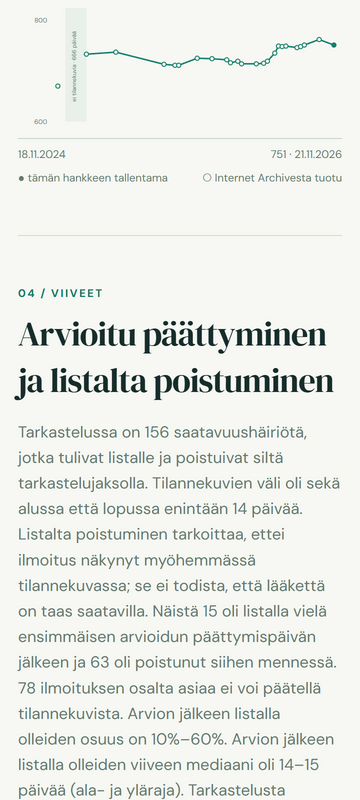
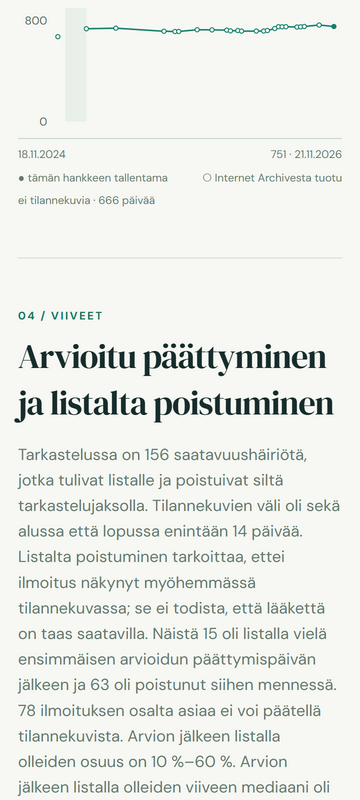
Clarify delay sample and credit archived captures

diff --git a/site/app.js b/site/app.js
@@ -2,10 +2,13 @@ let data, visible = 20;
 const $ = id => document.getElementById(id);
 const esc = value => String(value || '').replace(/[&<>"']/g, c => ({'&':'&amp;','<':'&lt;','>':'&gt;','"':'&quot;',"'":'&#39;'}[c]));
 const copy = {
-  en: {brand: 'SHORTAGE RADAR', languageLabel: 'Language', form_0:"Eye drops", form_1:"Ear drops", form_2:"Nasal spray", form_3:"Inhaled medicine", form_4:"Injection", form_5:"Infusion", form_6:"Cream", form_7:"Chewable tablet", form_8:"Tablet dissolved under the tongue", form_9:"Tablet", form_10:"Capsule", form_11:"Patch", form_12:"Oral solution", form_13:"Oral suspension", form_14:"Cream or ointment", form_15:"Gel", form_16:"Shampoo", form_17:"Suppository", form_18:"Enema", group_A:"Digestive and metabolic medicines", group_B:"Blood medicines", group_C:"Heart and blood pressure medicines", group_D:"Skin medicines", group_G:"Urinary and reproductive health medicines", group_H:"Hormone medicines", group_J:"Medicines for infections", group_L:"Cancer and immune system medicines", group_M:"Muscle and joint medicines", group_N:"Nervous system medicines", group_P:"Medicines for parasites", group_Q:"Veterinary medicines", group_R:"Breathing and allergy medicines", group_S:"Eye and ear medicines", group_V:"Other medicines", form_combined:"Medicine for injection or infusion", form_injectionPowder:"Powder for injection", form_infusionPowder:"Powder for infusion", form_oralSolutionPowder:"Powder for oral solution", form_oralSuspensionPowder:"Powder for oral suspension", group_eye:"Eye medicines", group_ear:"Ear medicines", chartAria:(a,b,n)=>`Saved snapshot counts from ${a} to ${b}, latest ${n}`, latest:d=>`LATEST SNAPSHOT ${d}`, historyStart:d=>`History starts on ${d}. Earlier shortages are not included.`, delayCount:n=>`${n} observed removals with an initial estimate. Removal dates are the first saved snapshot without the record, not confirmed end dates.`, country:"/ FINLAND", aboutLink:"About the data ↗", openData:"FIMEA OPEN DATA", heading:"Medicine shortages", headingPlace:"in Finland.", intro:"A clearer view of reported medicine shortages, updated from Fimea’s open data.", aboutTitle:"ABOUT THIS DATA", aboutText:"Includes current shortages and those expected to begin within two weeks. A listing does not tell you whether a medicine is available at your pharmacy.", overview:"Overview", statShortages:"LISTED SHORTAGES", statCurrent:"Current and upcoming", statCompanies:"COMPANIES", statHolders:"Marketing authorisation holders", statArchive:"ARCHIVE STARTED", statArchiveNote:"History begins on this date", listKicker:"01 / THE LIST", searchLabel:"Search shortages", packageLevel:"FIMEA · PACKAGE LEVEL", pictureKicker:"02 / THE PICTURE", pictureTitle:"Where shortages appear", pictureText:"Counts represent listed shortage records, not unique medicines.", byGroup:"By medicine group", byCompany:"By company", topTen:"top 10", historyKicker:"03 / OVER TIME", historyTitle:"A history, starting here.", historyText:"Snapshots are saved when the source changes. Gaps do not prove daily observations, and removal from the list is not proof of actual supply.", chartLabel:"Shortage counts by saved snapshot", delayKicker:"04 / DELAYS", delayTitle:"Estimated end vs. list removal", noticeTitle:"Not medical advice.", noticeText:"Ask a pharmacist or doctor about your medicines.", footerAgency:"Finnish Medicines Agency Fimea", footerTransform:"Data was selected, joined and transformed.", footerNote:"Source dates are HTTP Last-Modified times; publisher release times are not provided. Interchangeable groups are not substitution recommendations.", sourceLink:"Source and licence ↗", pageTitle:"Shortage Radar — Finland", description:"A clearer view of reported medicine shortages in Finland.", loading:"Loading shortages…", loadingData:"Loading data…", loadError:"Unable to load data", listError:"Data could not be loaded. Please try again later.", startUnknown:"Start date unknown", startUnknownSentence:"Start date not known.", chartEmpty:"A chart will appear when at least two snapshots are available.", unknownCompany:"Unknown", delayEmpty:"Needs more weeks of data.", firstEstimate:"first estimate", removedBy:"removed by", shortageFile:"Fimea shortage file", register:"Basic register", helpTitle:'What is a shortage?', help:'The company has told Fimea it cannot deliver this package for a while. Your pharmacy may still have some. Ask your pharmacy what is available. This site is not medical advice.', title:'Reported shortages', hint:'Search by medicine, active substance, ATC, company or VNR.', placeholder:'Search your medicine, e.g. Burana', count:n=>`${numberText(n)} ${n === 1 ? 'record' : 'records'}`, more:'Show more', empty:'No medicines match your search. Try another name or number.', out:'Out now', soon:'Starts soon', since:'Not available since', starts:'Expected to become unavailable on', expected:'Expected back around', estimate:"the company’s estimate", unknown:'Return date not known.', late:'Later than estimated', days:n=>`${numberText(n)} ${n === 1 ? 'day' : 'days'}`, details:'Details', strength:'Strength', substance:'Active substance', company:'Company', reported:'Report date', unavailable:'Name unavailable', group:'What is it for', noGroup:'Group not listed', form:'Original form', otherForm:'Other form'},
-  fi: {brand: 'SAATAVUUSTUTKA', languageLabel: 'Kieli', form_0:"Silmätipat", form_1:"Korvatipat", form_2:"Nenäsumute", form_3:"Inhalaatiolääke", form_4:"Injektioneste", form_5:"Infuusioneste", form_6:"Emulsiovoide", form_7:"Purutabletti", form_8:"Kielen alle liukeneva tabletti", form_9:"Tabletti", form_10:"Kapseli", form_11:"Laastari", form_12:"Oraaliliuos", form_13:"Oraalisuspensio", form_14:"Voide", form_15:"Geeli", form_16:"Sampoo", form_17:"Peräpuikko", form_18:"Peräruiske", group_A:"Ruoansulatuksen ja aineenvaihdunnan lääkkeet", group_B:"Veren ja verenkierron lääkkeet", group_C:"Sydän- ja verenpainelääkkeet", group_D:"Iholääkkeet", group_G:"Virtsateiden ja lisääntymisterveyden lääkkeet", group_H:"Hormonilääkkeet", group_J:"Infektiolääkkeet", group_L:"Syöpä- ja immuunijärjestelmän lääkkeet", group_M:"Lihas- ja nivelsairauksien lääkkeet", group_N:"Hermoston lääkkeet", group_P:"Loislääkkeet", group_Q:"Eläinlääkkeet", group_R:"Hengitystie- ja allergialääkkeet", group_S:"Silmä- ja korvalääkkeet", group_V:"Muut lääkkeet", form_combined:"Injektio- tai infuusiolääke", form_injectionPowder:"Injektiokuiva-aine", form_infusionPowder:"Infuusiokuiva-aine", form_oralSolutionPowder:"Jauhe oraaliliuosta varten", form_oralSuspensionPowder:"Jauhe oraalisuspensiota varten", group_eye:"Silmälääkkeet", group_ear:"Korvalääkkeet", chartAria:(a,b,n)=>`Tallennettujen tilannekuvien ilmoitusmäärät ${a}–${b}, viimeisin ${n}`, latest:d=>`VIIMEISIN TILANNEKUVA ${d}`, historyStart:d=>`Historia alkaa ${d}. Aiemmat saatavuushäiriöt eivät ole mukana.`, delayCount:n=>`${n} listalta poistuneelle ilmoitukselle on alkuperäinen päättymisarvio. Poistumispäivä on ensimmäinen tallennettu tilannekuva, jossa ilmoitusta ei enää ole, ei vahvistettu päättymispäivä.`, country:"/ SUOMI", aboutLink:"Tietoa aineistosta ↗", openData:"FIMEAN AVOIN DATA", heading:"Lääkkeiden", headingPlace:"saatavuushäiriöt Suomessa.", intro:"Selkeä näkymä ilmoitettuihin lääkkeiden saatavuushäiriöihin Fimean avoimen datan perusteella.", aboutTitle:"TIETOA AINEISTOSTA", aboutText:"Mukana ovat nykyiset häiriöt ja kahden viikon kuluessa alkaviksi arvioidut häiriöt. Ilmoitus ei kerro, onko lääkettä saatavilla omassa apteekissasi.", overview:"Yhteenveto", statShortages:"ILMOITETUT HÄIRIÖT", statCurrent:"Nykyiset ja tulevat", statCompanies:"YRITYKSET", statHolders:"Myyntiluvan haltijat", statArchive:"ARKISTO ALKANUT", statArchiveNote:"Historia alkaa tästä päivästä", listKicker:"01 / LISTA", searchLabel:"Hae saatavuushäiriöitä", packageLevel:"FIMEA · PAKKAUSTASO", pictureKicker:"02 / YLEISKUVA", pictureTitle:"Missä häiriöitä esiintyy", pictureText:"Luvut kuvaavat ilmoituksia, eivät yksittäisten lääkkeiden määrää.", byGroup:"Lääkeryhmittäin", byCompany:"Yrityksittäin", topTen:"10 suurinta", historyKicker:"03 / AIKANA", historyTitle:"Historia alkaa tästä.", historyText:"Tilannekuva tallennetaan, kun lähdeaineisto muuttuu. Aukot eivät osoita päivittäisiä havaintoja, eikä listalta poistuminen todista, että lääkettä on saatavilla.", chartLabel:"Ilmoitusten määrä tallennetuissa tilannekuvissa", delayKicker:"04 / VIIVEET", delayTitle:"Arvioitu päättyminen ja listalta poistuminen", noticeTitle:"Tämä ei ole lääketieteellinen neuvo.", noticeText:"Kysy lääkkeistäsi apteekista tai lääkäriltä.", footerAgency:"Lääkealan turvallisuus- ja kehittämiskeskus Fimea", footerTransform:"Aineistoa on valikoitu, yhdistetty ja muokattu.", footerNote:"Lähteiden ajankohdat ovat HTTP Last-Modified -aikoja; julkaisija ei ilmoita julkaisuaikoja. Vaihtokelpoisten lääkkeiden ryhmät eivät ole suosituksia lääkkeen vaihtamisesta.", sourceLink:"Lähde ja lisenssi ↗", pageTitle:"Saatavuustutka — Suomi", description:"Selkeä näkymä Suomessa ilmoitettuihin lääkkeiden saatavuushäiriöihin.", loading:"Ladataan saatavuushäiriöitä…", loadingData:"Ladataan tietoja…", loadError:"Tietojen lataaminen epäonnistui", listError:"Tietoja ei voitu ladata. Yritä myöhemmin uudelleen.", startUnknown:"Alkamispäivä ei tiedossa", startUnknownSentence:"Alkamispäivä ei ole tiedossa.", chartEmpty:"Kaavio tulee näkyviin, kun vähintään kaksi tilannekuvaa on tallennettu.", unknownCompany:"Ei tiedossa", delayEmpty:"Tietoja tarvitaan useammalta viikolta.", firstEstimate:"ensimmäinen arvio", removedBy:"poistunut listalta", shortageFile:"Fimean saatavuushäiriötiedosto", register:"Perusrekisteri", helpTitle:'Mitä saatavuushäiriö tarkoittaa?', help:'Yritys on ilmoittanut Fimealle, ettei se voi toimittaa tätä pakkausta vähään aikaan. Apteekissa sitä voi silti olla. Kysy apteekista, mitä on saatavilla. Tämä sivusto ei anna lääketieteellisiä neuvoja.', title:'Ilmoitetut saatavuushäiriöt', hint:'Hae lääkkeen tai vaikuttavan aineen nimellä, ATC-koodilla, yrityksellä tai VNR-numerolla.', placeholder:'Hae lääkettä, esim. Burana', count:n=>`${numberText(n)} ${n === 1 ? 'ilmoitus' : 'ilmoitusta'}`, more:'Näytä lisää', empty:'Haulla ei löytynyt lääkkeitä. Kokeile toista nimeä tai numeroa.', out:'Saatavuushäiriö nyt', soon:'Alkaa pian', since:'Saatavuushäiriö alkanut', starts:'Saatavuushäiriön arvioidaan alkavan', expected:'Arvioidaan olevan taas saatavilla noin', estimate:'yrityksen arvio', unknown:'Saatavuuden palautumisen ajankohta ei ole tiedossa.', late:'Arvio on ylittynyt', days:n=>`${numberText(n)} ${n === 1 ? 'päivä' : 'päivää'}`, details:'Lisätiedot', strength:'Vahvuus', substance:'Vaikuttava aine', company:'Yritys', reported:'Ilmoituspäivä', unavailable:'Nimi ei tiedossa', group:'Lääkeryhmä', noGroup:'Lääkeryhmää ei ole ilmoitettu', form:'Alkuperäinen lääkemuoto', otherForm:'Muu lääkemuoto'}
+  en: {brand: 'SHORTAGE RADAR', languageLabel: 'Language', form_0:"Eye drops", form_1:"Ear drops", form_2:"Nasal spray", form_3:"Inhaled medicine", form_4:"Injection", form_5:"Infusion", form_6:"Cream", form_7:"Chewable tablet", form_8:"Tablet dissolved under the tongue", form_9:"Tablet", form_10:"Capsule", form_11:"Patch", form_12:"Oral solution", form_13:"Oral suspension", form_14:"Cream or ointment", form_15:"Gel", form_16:"Shampoo", form_17:"Suppository", form_18:"Enema", group_A:"Digestive and metabolic medicines", group_B:"Blood medicines", group_C:"Heart and blood pressure medicines", group_D:"Skin medicines", group_G:"Urinary and reproductive health medicines", group_H:"Hormone medicines", group_J:"Medicines for infections", group_L:"Cancer and immune system medicines", group_M:"Muscle and joint medicines", group_N:"Nervous system medicines", group_P:"Medicines for parasites", group_Q:"Veterinary medicines", group_R:"Breathing and allergy medicines", group_S:"Eye and ear medicines", group_V:"Other medicines", form_combined:"Medicine for injection or infusion", form_injectionPowder:"Powder for injection", form_infusionPowder:"Powder for infusion", form_oralSolutionPowder:"Powder for oral solution", form_oralSuspensionPowder:"Powder for oral suspension", group_eye:"Eye medicines", group_ear:"Ear medicines", chartAria:(a,b,n)=>`Saved snapshot counts from ${a} to ${b}, latest ${n}`, latest:d=>`LATEST SNAPSHOT ${d}`, country:"/ FINLAND", aboutLink:"About the data ↗", openData:"FIMEA OPEN DATA", heading:"Medicine shortages", headingPlace:"in Finland.", intro:"A clearer view of reported medicine shortages, updated from Fimea’s open data.", aboutTitle:"ABOUT THIS DATA", aboutText:"Includes current shortages and those expected to begin within two weeks. A listing does not tell you whether a medicine is available at your pharmacy.", overview:"Overview", statShortages:"LISTED SHORTAGES", statCurrent:"Current and upcoming", statCompanies:"COMPANIES", statHolders:"Marketing authorisation holders", statArchive:"ARCHIVE STARTED", statArchiveNote:"History begins on this date", listKicker:"01 / THE LIST", searchLabel:"Search shortages", packageLevel:"FIMEA · PACKAGE LEVEL", pictureKicker:"02 / THE PICTURE", pictureTitle:"Where shortages appear", pictureText:"Counts represent listed shortage records, not unique medicines.", byGroup:"By medicine group", byCompany:"By company", topTen:"top 10", historyKicker:"03 / OVER TIME", historyTitle:"A history, starting here.", historyText:"Snapshots are saved when the source changes. Gaps do not prove daily observations, and removal from the list is not proof of actual supply.", chartLabel:"Shortage counts by saved snapshot", delayKicker:"04 / DELAYS", delayTitle:"Estimated end vs. list removal", noticeTitle:"Not medical advice.", noticeText:"Ask a pharmacist or doctor about your medicines.", footerAgency:"Finnish Medicines Agency Fimea", footerTransform:"Data was selected, joined and transformed.", footerNote:"Source dates are HTTP Last-Modified times; publisher release times are not provided. Interchangeable groups are not substitution recommendations.", sourceLink:"Source and licence ↗", pageTitle:"Shortage Radar — Finland", description:"A clearer view of reported medicine shortages in Finland.", loading:"Loading shortages…", loadingData:"Loading data…", loadError:"Unable to load data", listError:"Data could not be loaded. Please try again later.", startUnknown:"Start date unknown", startUnknownSentence:"Start date not known.", chartEmpty:"A chart will appear when at least two snapshots are available.", unknownCompany:"Unknown", delayEmpty:"Needs more weeks of data.", firstEstimate:"first estimate", removedBy:"removed by", shortageFile:"Fimea shortage file", register:"Basic register", helpTitle:'What is a shortage?', help:'The company has told Fimea it cannot deliver this package for a while. Your pharmacy may still have some. Ask your pharmacy what is available. This site is not medical advice.', title:'Reported shortages', hint:'Search by medicine, active substance, ATC, company or VNR.', placeholder:'Search your medicine, e.g. Burana', count:n=>`${numberText(n)} ${n === 1 ? 'record' : 'records'}`, more:'Show more', empty:'No medicines match your search. Try another name or number.', out:'Out now', soon:'Starts soon', since:'Not available since', starts:'Expected to become unavailable on', expected:'Expected back around', estimate:"the company’s estimate", unknown:'Return date not known.', late:'Later than estimated', days:n=>`${numberText(n)} ${n === 1 ? 'day' : 'days'}`, details:'Details', strength:'Strength', substance:'Active substance', company:'Company', reported:'Report date', unavailable:'Name unavailable', group:'What is it for', noGroup:'Group not listed', form:'Original form', otherForm:'Other form'},
+  fi: {brand: 'SAATAVUUSTUTKA', languageLabel: 'Kieli', form_0:"Silmätipat", form_1:"Korvatipat", form_2:"Nenäsumute", form_3:"Inhalaatiolääke", form_4:"Injektioneste", form_5:"Infuusioneste", form_6:"Emulsiovoide", form_7:"Purutabletti", form_8:"Kielen alle liukeneva tabletti", form_9:"Tabletti", form_10:"Kapseli", form_11:"Laastari", form_12:"Oraaliliuos", form_13:"Oraalisuspensio", form_14:"Voide", form_15:"Geeli", form_16:"Sampoo", form_17:"Peräpuikko", form_18:"Peräruiske", group_A:"Ruoansulatuksen ja aineenvaihdunnan lääkkeet", group_B:"Veren ja verenkierron lääkkeet", group_C:"Sydän- ja verenpainelääkkeet", group_D:"Iholääkkeet", group_G:"Virtsateiden ja lisääntymisterveyden lääkkeet", group_H:"Hormonilääkkeet", group_J:"Infektiolääkkeet", group_L:"Syöpä- ja immuunijärjestelmän lääkkeet", group_M:"Lihas- ja nivelsairauksien lääkkeet", group_N:"Hermoston lääkkeet", group_P:"Loislääkkeet", group_Q:"Eläinlääkkeet", group_R:"Hengitystie- ja allergialääkkeet", group_S:"Silmä- ja korvalääkkeet", group_V:"Muut lääkkeet", form_combined:"Injektio- tai infuusiolääke", form_injectionPowder:"Injektiokuiva-aine", form_infusionPowder:"Infuusiokuiva-aine", form_oralSolutionPowder:"Jauhe oraaliliuosta varten", form_oralSuspensionPowder:"Jauhe oraalisuspensiota varten", group_eye:"Silmälääkkeet", group_ear:"Korvalääkkeet", chartAria:(a,b,n)=>`Tallennettujen tilannekuvien ilmoitusmäärät ${a}–${b}, viimeisin ${n}`, latest:d=>`VIIMEISIN TILANNEKUVA ${d}`, country:"/ SUOMI", aboutLink:"Tietoa aineistosta ↗", openData:"FIMEAN AVOIN DATA", heading:"Lääkkeiden", headingPlace:"saatavuushäiriöt Suomessa.", intro:"Selkeä näkymä ilmoitettuihin lääkkeiden saatavuushäiriöihin Fimean avoimen datan perusteella.", aboutTitle:"TIETOA AINEISTOSTA", aboutText:"Mukana ovat nykyiset häiriöt ja kahden viikon kuluessa alkaviksi arvioidut häiriöt. Ilmoitus ei kerro, onko lääkettä saatavilla omassa apteekissasi.", overview:"Yhteenveto", statShortages:"ILMOITETUT HÄIRIÖT", statCurrent:"Nykyiset ja tulevat", statCompanies:"YRITYKSET", statHolders:"Myyntiluvan haltijat", statArchive:"ARKISTO ALKANUT", statArchiveNote:"Historia alkaa tästä päivästä", listKicker:"01 / LISTA", searchLabel:"Hae saatavuushäiriöitä", packageLevel:"FIMEA · PAKKAUSTASO", pictureKicker:"02 / YLEISKUVA", pictureTitle:"Missä häiriöitä esiintyy", pictureText:"Luvut kuvaavat ilmoituksia, eivät yksittäisten lääkkeiden määrää.", byGroup:"Lääkeryhmittäin", byCompany:"Yrityksittäin", topTen:"10 suurinta", historyKicker:"03 / AIKANA", historyTitle:"Historia alkaa tästä.", historyText:"Tilannekuva tallennetaan, kun lähdeaineisto muuttuu. Aukot eivät osoita päivittäisiä havaintoja, eikä listalta poistuminen todista, että lääkettä on saatavilla.", chartLabel:"Ilmoitusten määrä tallennetuissa tilannekuvissa", delayKicker:"04 / VIIVEET", delayTitle:"Arvioitu päättyminen ja listalta poistuminen", noticeTitle:"Tämä ei ole lääketieteellinen neuvo.", noticeText:"Kysy lääkkeistäsi apteekista tai lääkäriltä.", footerAgency:"Lääkealan turvallisuus- ja kehittämiskeskus Fimea", footerTransform:"Aineistoa on valikoitu, yhdistetty ja muokattu.", footerNote:"Lähteiden ajankohdat ovat HTTP Last-Modified -aikoja; julkaisija ei ilmoita julkaisuaikoja. Vaihtokelpoisten lääkkeiden ryhmät eivät ole suosituksia lääkkeen vaihtamisesta.", sourceLink:"Lähde ja lisenssi ↗", pageTitle:"Saatavuustutka — Suomi", description:"Selkeä näkymä Suomessa ilmoitettuihin lääkkeiden saatavuushäiriöihin.", loading:"Ladataan saatavuushäiriöitä…", loadingData:"Ladataan tietoja…", loadError:"Tietojen lataaminen epäonnistui", listError:"Tietoja ei voitu ladata. Yritä myöhemmin uudelleen.", startUnknown:"Alkamispäivä ei tiedossa", startUnknownSentence:"Alkamispäivä ei ole tiedossa.", chartEmpty:"Kaavio tulee näkyviin, kun vähintään kaksi tilannekuvaa on tallennettu.", unknownCompany:"Ei tiedossa", delayEmpty:"Tietoja tarvitaan useammalta viikolta.", firstEstimate:"ensimmäinen arvio", removedBy:"poistunut listalta", shortageFile:"Fimean saatavuushäiriötiedosto", register:"Perusrekisteri", helpTitle:'Mitä saatavuushäiriö tarkoittaa?', help:'Yritys on ilmoittanut Fimealle, ettei se voi toimittaa tätä pakkausta vähään aikaan. Apteekissa sitä voi silti olla. Kysy apteekista, mitä on saatavilla. Tämä sivusto ei anna lääketieteellisiä neuvoja.', title:'Ilmoitetut saatavuushäiriöt', hint:'Hae lääkkeen tai vaikuttavan aineen nimellä, ATC-koodilla, yrityksellä tai VNR-numerolla.', placeholder:'Hae lääkettä, esim. Burana', count:n=>`${numberText(n)} ${n === 1 ? 'ilmoitus' : 'ilmoitusta'}`, more:'Näytä lisää', empty:'Haulla ei löytynyt lääkkeitä. Kokeile toista nimeä tai numeroa.', out:'Saatavuushäiriö nyt', soon:'Alkaa pian', since:'Saatavuushäiriö alkanut', starts:'Saatavuushäiriön arvioidaan alkavan', expected:'Arvioidaan olevan taas saatavilla noin', estimate:'yrityksen arvio', unknown:'Saatavuuden palautumisen ajankohta ei ole tiedossa.', late:'Arvio on ylittynyt', days:n=>`${numberText(n)} ${n === 1 ? 'päivä' : 'päivää'}`, details:'Lisätiedot', strength:'Vahvuus', substance:'Vaikuttava aine', company:'Yritys', reported:'Ilmoituspäivä', unavailable:'Nimi ei tiedossa', group:'Lääkeryhmä', noGroup:'Lääkeryhmää ei ole ilmoitettu', form:'Alkuperäinen lääkemuoto', otherForm:'Muu lääkemuoto'}
 };
 Object.assign(copy.en, {
+  archiveCredit: 'Earlier captures:',
+  delayBias: ' Shortages still on the list are not counted, so the share past the estimate is likely higher.',
+  activePast: (n,date,gap) => ` On ${date}, ${n} shortages were still listed past their first estimated end date and had first been seen within ${gap} days of the preceding capture.`,
   savedLegend: '● saved by this project', importedLegend: '○ imported from the Internet Archive',
   capturePoint: (date, count, source) => `${date}: ${count} records (${source})`, savedSource: 'saved by this project', importedSource: 'imported from the Internet Archive',
   noCaptures: n => `no captures · ${n} days`, gapBefore: (n, date) => `${n} days before ${date}`,
@@ -13,12 +16,15 @@ Object.assign(copy.en, {
   historySummary: (total,date,imported,own,gaps,first) => `${total} captures since ${date}: ${imported} imported from the Internet Archive and ${own} saved by this project.${gaps ? ` Longer gaps without captures: ${gaps}.` : ''} ${first} records were already listed at the first capture, so their start is unknown. The chart does not interpolate across gaps.`,
   rssSummary: items => `Earlier counts from archived copies of Fimea's RSS feed: ${items}. These items have no VNR and cannot be compared with package counts above.`, rssItem: (date,n) => `${date}: ${n} items`,
   delaySample: (n,gap) => `${n} ${n === '1' ? 'shortage' : 'shortages'} entered and left the list within the covered period, with captures at most ${gap} days apart at both ends. Left the list means the record was absent from a later capture; it does not prove the medicine is back.`,
-  delayResult: (past,notPast,unknown,min,max) => ` Of these, ${past} were still listed after the first estimated end date, ${notPast} had left by then, and ${unknown} cannot be determined between captures. The share listed past the estimate is between ${min} and ${max}.`,
+  delayResult: (past,notPast,unknown,min,max) => ` Of these, ${past} were still listed after the first estimated end date, ${notPast} had left by then, and ${unknown} cannot be determined between captures. The share listed past the estimate is ${min}–${max}.`,
   delayMedian: range => ` For those still listed past the estimate, the median overrun was ${range} (lower and upper bounds).`, delaySmall: n => ` This is fewer than ${n}, too few for shares or medians.`,
   delayExcluded: (first,noEstimate,start,end,changed) => ` Excluded: ${first} already listed at the first capture, ${noEstimate} without an estimate, ${start} first seen after a long gap, ${end} removed across a long gap, and ${changed} whose package remained listed under a changed record.`,
   delayExamples: 'Longest observed overruns', lastListed: 'last listed', goneBy: 'gone by', dayRange: (a,b) => `${a === b ? a : `${a}–${b}`} days`
 });
 Object.assign(copy.fi, {
+  archiveCredit: 'Aiemmat tallenteet:',
+  delayBias: ' Edelleen listalla olevia saatavuushäiriöitä ei lasketa mukaan, joten arvion ylittäneiden todellinen osuus on todennäköisesti suurempi.',
+  activePast: (n,date,gap) => ` Tilannekuvassa ${date} oli edelleen listalla ${n} saatavuushäiriötä ensimmäisen arvioidun päättymispäivän jälkeen. Ne oli havaittu ensimmäisen kerran enintään ${gap} päivää edellisen tilannekuvan jälkeen.`,
   savedLegend: '● tämän hankkeen tallentama', importedLegend: '○ Internet Archivesta tuotu',
   capturePoint: (date, count, source) => `${date}: ${count} ilmoitusta (${source})`, savedSource: 'tämän hankkeen tallentama', importedSource: 'Internet Archivesta tuotu',
   noCaptures: n => `ei tilannekuvia · ${n} päivää`, gapBefore: (n,date) => `${n} päivää ennen ${date}`,
@@ -99,7 +105,7 @@ function drawChart(history, maxGap) {
   if (history.length < 2) { $('chart').textContent=t.chartEmpty; return; }
   const day=h=>Date.parse(h.date)/86400000, segments=[];
   history.forEach(h=>{const g=segments[segments.length-1]; if(g && day(h)-day(g[g.length-1])<=maxGap) g.push(h); else segments.push([h]);});
-  const lo=Math.floor(Math.min(...history.map(h=>h.count))*.9/50)*50, hi=Math.max(lo+50,Math.ceil(Math.max(...history.map(h=>h.count))/50)*50), y=n=>150-125*(n-lo)/(hi-lo);
+  const lo=0, hi=Math.max(50,Math.ceil(Math.max(...history.map(h=>h.count))/50)*50), y=n=>150-125*n/hi;
   const band=Math.min(26,150/Math.max(1,segments.length-1)), room=350-band*(segments.length-1), spans=segments.map(g=>Math.max(day(g[g.length-1])-day(g[0]),1)), sum=spans.reduce((a,b)=>a+b,0), minimum=Math.min(14,room/segments.length/2);
   const widths=spans.map(s=>minimum+(room-minimum*segments.length)*s/sum); let x0=40, svg='', gaps=[];
   segments.forEach((g,i)=>{
@@ -107,17 +113,18 @@ function drawChart(history, maxGap) {
     if(g.length>1) svg+=`<polyline points="${g.map(h=>`${x(h).toFixed(1)},${y(h.count).toFixed(1)}`).join(' ')}" fill="none" stroke="#16806d" stroke-width="1.5" vector-effect="non-scaling-stroke"/>`;
     svg+=g.map(h=>`<circle cx="${x(h).toFixed(1)}" cy="${y(h.count).toFixed(1)}" r="2.6" fill="${h.imported ? '#f7f8f3' : '#16806d'}" stroke="#16806d" stroke-width="1.2"><title>${esc(t.capturePoint(dateText(h.date),numberText(h.count),h.imported ? t.importedSource : t.savedSource))}</title></circle>`).join('');
     x0+=w;
-    if(i<segments.length-1) {const days=Math.round(day(segments[i+1][0])-day(g[g.length-1])); gaps.push(numberText(days)); svg+=`<rect x="${x0}" y="10" width="${band}" height="140" fill="#e8f0e9"/><text x="${x0+band/2}" y="82" font-size="7" fill="#657b70" text-anchor="middle" transform="rotate(-90 ${x0+band/2} 82)">${esc(t.noCaptures(numberText(days)))}</text>`; x0+=band;}
+    if(i<segments.length-1) {const days=Math.round(day(segments[i+1][0])-day(g[g.length-1])); gaps.push(numberText(days)); svg+=`<rect x="${x0}" y="10" width="${band}" height="140" fill="#e8f0e9"/>`; x0+=band;}
   });
-  const grid=`<text x="36" y="${y(hi)+3}" font-size="8" fill="#657b70" text-anchor="end">${numberText(hi)}</text><text x="36" y="153" font-size="8" fill="#657b70" text-anchor="end">${numberText(lo)}</text>`, last=history[history.length-1];
-  $('chart').innerHTML=`<svg viewBox="0 0 400 170" role="img" aria-label="${esc(t.chartSummary(dateText(history[0].date),dateText(last.date),numberText(last.count),gaps.join(', ')))}">${grid}${svg}</svg><div class="chart-labels"><span>${esc(dateText(history[0].date))}</span><span>${numberText(last.count)} · ${esc(dateText(last.date))}</span></div><div class="chart-labels"><span>${esc(t.savedLegend)}</span><span>${esc(t.importedLegend)}</span></div>`;
+  const grid=`<text x="36" y="${y(hi)+5}" font-size="14" fill="#536b5e" text-anchor="end">${numberText(hi)}</text><text x="36" y="155" font-size="14" fill="#536b5e" text-anchor="end">${numberText(lo)}</text>`, last=history[history.length-1];
+  $('chart').innerHTML=`<svg viewBox="0 0 400 170" role="img" aria-label="${esc(t.chartSummary(dateText(history[0].date),dateText(last.date),numberText(last.count),gaps.join(', ')))}">${grid}${svg}</svg><div class="chart-labels"><span>${esc(dateText(history[0].date))}</span><span>${numberText(last.count)} · ${esc(dateText(last.date))}</span></div><div class="chart-labels"><span>${esc(t.savedLegend)}</span><span>${esc(t.importedLegend)}</span></div>${gaps.length ? `<div class="chart-labels"><span>${esc(gaps.map(g=>t.noCaptures(g)).join('; '))}</span></div>` : ''}`;
 }
-function drawDelays(d) {
+function drawDelays(d, snapshotDate) {
   const t=copy[language]; if(!d) { $('delay-note').textContent=t.delayEmpty; $('delay-list').innerHTML=''; return; }
-  const n=numberText, ex=d.excluded, pct=s=>`${Math.round(s*100)}%`;
+  const n=numberText, ex=d.excluded, pct=s=>`${Math.round(s*100)}${language === 'fi' ? ' ' : ''}%`;
   let text=t.delaySample(n(d.sample_size),n(d.max_gap_days));
   if(d.meaningful) { text+=t.delayResult(n(d.past_estimate),n(d.not_past_estimate),n(d.undetermined),pct(d.share_past_min),pct(d.share_past_max)); if(d.past_estimate) text+=t.delayMedian(t.dayRange(n(d.median_overrun_min_days),n(d.median_overrun_max_days))); }
   else text+=t.delaySmall(n(d.min_sample));
+  text+=t.delayBias+t.activePast(n(d.active_past_estimate),dateText(snapshotDate),n(d.max_gap_days));
   text+=t.delayExcluded(n(ex.listed_at_first_capture),n(ex.no_estimate),n(ex.wide_start_window),n(ex.wide_removal_window),n(ex.vnr_still_listed));
   $('delay-note').textContent=text;
   $('delay-list').innerHTML=d.meaningful && d.examples.length ? `<h3>${esc(t.delayExamples)}</h3>`+d.examples.map(e=>`<p>${esc(e.name || e.vnr)} · ${esc(t.firstEstimate)} ${esc(dateText(e.first_estimated_end))} · ${esc(t.lastListed)} ${esc(dateText(e.last_seen))} · ${esc(t.goneBy)} ${esc(dateText(e.removed_on))}</p>`).join('') : '';
@@ -133,7 +140,7 @@ function drawDates(d) {
   $('history-note').textContent=t.historySummary(numberText(d.history.length),dateText(d.archive_start),numberText(imported),numberText(own),gaps.join('; '),numberText(d.events.filter(e=>e.listed_at_first_capture).length));
   const rss=(d.rss_counts || []).filter(c=>c.items);
   $('rss-note').textContent=rss.length ? t.rssSummary(rss.map(c=>t.rssItem(dateText(c.date),numberText(c.items))).join('; ')) : '';
-  drawChart(d.history,d.max_gap_days); drawDelays(d.delays);
+  drawChart(d.history,d.max_gap_days); drawDelays(d.delays,d.snapshot_date);
 }
 function renderData() {
   const d=data, t=copy[language], current=d.events.filter(e => !e.removed_on), companies={}, atc={};

diff --git a/site/index.html b/site/index.html
@@ -20,5 +20,5 @@
   <section class="history"><div><div class="kicker"><span data-i18n="historyKicker">03 / OVER TIME</span></div><h2><span data-i18n="historyTitle">A history, starting here.</span></h2><p id="history-note"></p><p><span data-i18n="historyText">Snapshots are saved when the source changes. Gaps do not prove daily observations, and removal from the list is not proof of actual supply.</span></p><p id="rss-note"></p></div><div id="chart" class="chart" data-i18n-aria="chartLabel" aria-label="Shortage counts by saved snapshot"></div></section>
   <section class="delays"><div class="kicker"><span data-i18n="delayKicker">04 / DELAYS</span></div><h2><span data-i18n="delayTitle">Estimated end vs. list removal</span></h2><p id="delay-note">Needs more weeks of data.</p><div id="delay-list"></div></section>
   <aside class="notice"><strong data-i18n="noticeTitle">Not medical advice.</strong> <span data-i18n="noticeText">Ask a pharmacist or doctor about your medicines.</span></aside>
-</main><footer><div class="wrap"><p><span data-i18n="footerAgency">Finnish Medicines Agency Fimea</span> · <a href="https://creativecommons.org/licenses/by/4.0/">CC BY 4.0</a> · <span data-i18n="footerTransform">Data was selected, joined and transformed.</span></p><p id="source-times"></p><p><span data-i18n="footerNote">Source dates are HTTP Last-Modified times; publisher release times are not provided. Interchangeable groups are not substitution recommendations.</span></p><a href="https://fimea.fi/en/about_us/open-data"><span data-i18n="sourceLink">Source and licence ↗</span></a></div></footer>
+</main><footer><div class="wrap"><p><span data-i18n="footerAgency">Finnish Medicines Agency Fimea</span> · <a href="https://creativecommons.org/licenses/by/4.0/">CC BY 4.0</a> · <span data-i18n="footerTransform">Data was selected, joined and transformed.</span></p><p><span data-i18n="archiveCredit">Earlier captures:</span> <a href="https://web.archive.org/">Internet Archive (web.archive.org)</a></p><p id="source-times"></p><p><span data-i18n="footerNote">Source dates are HTTP Last-Modified times; publisher release times are not provided. Interchangeable groups are not substitution recommendations.</span></p><a href="https://fimea.fi/en/about_us/open-data"><span data-i18n="sourceLink">Source and licence ↗</span></a></div></footer>
 </body></html>

diff --git a/scripts/build.py b/scripts/build.py
@@ -102,10 +102,14 @@ def delay_stats(all_events):
     MAX_GAP_DAYS of the previous capture (so the first estimate is close to the
     original one) and removed within MAX_GAP_DAYS of the last capture listing it.
     """
-    sample, excluded = [], {'listed_at_first_capture': 0, 'no_estimate': 0, 'wide_start_window': 0, 'wide_removal_window': 0, 'vnr_still_listed': 0}
+    sample, active_past, excluded = [], [], {'listed_at_first_capture': 0, 'no_estimate': 0, 'wide_start_window': 0, 'wide_removal_window': 0, 'vnr_still_listed': 0}
     for e in all_events:
         end = e.get('first_estimated_end')
         if not e['removed_on']:
+            if (end and not e['listed_at_first_capture'] and e['first_seen_after']
+                    and days_between(e['first_seen_after'], e['first_seen']) <= MAX_GAP_DAYS
+                    and days_between(end, e['last_seen']) > 0):
+                active_past.append(days_between(end, e['last_seen']))
             continue
         if e['listed_at_first_capture']:
             reason = 'listed_at_first_capture'
@@ -126,7 +130,7 @@ def delay_stats(all_events):
         sample.append({'vnr': e['NordicArticleNumber'], 'name': e.get('name', ''), 'first_estimated_end': end, 'last_seen': e['last_seen'], 'removed_on': e['removed_on'], 'overrun_min_days': low, 'overrun_max_days': high})
     past = [s for s in sample if s['overrun_min_days'] > 0]
     not_past = [s for s in sample if s['overrun_max_days'] <= 0]
-    result = {'sample_size': len(sample), 'past_estimate': len(past), 'not_past_estimate': len(not_past), 'undetermined': len(sample) - len(past) - len(not_past), 'excluded': excluded, 'removed_total': len(sample) + sum(excluded.values()), 'min_sample': MIN_DELAY_SAMPLE, 'max_gap_days': MAX_GAP_DAYS, 'meaningful': len(sample) >= MIN_DELAY_SAMPLE, 'examples': sorted(past, key=lambda s: -s['overrun_min_days'])[:10]}
+    result = {'sample_size': len(sample), 'past_estimate': len(past), 'not_past_estimate': len(not_past), 'undetermined': len(sample) - len(past) - len(not_past), 'active_past_estimate': len(active_past), 'excluded': excluded, 'removed_total': len(sample) + sum(excluded.values()), 'min_sample': MIN_DELAY_SAMPLE, 'max_gap_days': MAX_GAP_DAYS, 'meaningful': len(sample) >= MIN_DELAY_SAMPLE, 'examples': sorted(past, key=lambda s: -s['overrun_min_days'])[:10]}
     if result['meaningful']:
         result['share_past_min'] = len(past) / len(sample)
         result['share_past_max'] = (len(sample) - len(not_past)) / len(sample)

diff --git a/tests/test_build.py b/tests/test_build.py
@@ -97,3 +97,18 @@ def test_imported_dates_yield_to_own_snapshots(tmp_path, monkeypatch):
     snapshots, imported = build.load_snapshots()
     assert [d for d, _ in snapshots] == ['2026-11-17', '2026-11-21']
     assert snapshots[1][1][0]['Company'] == 'own' and imported == {'2026-11-17'}
+
+
+def test_active_past_estimate_requires_known_narrow_first_window():
+    def active(first_after, first, estimate, last='2026-11-21', first_capture=False):
+        return dict(removed_on=None, first_seen_after=first_after, first_seen=first,
+                    first_estimated_end=estimate, last_seen=last, listed_at_first_capture=first_capture)
+    stats = delay_stats([
+        active('2026-10-01', '2026-10-15', '2026-11-20'),
+        active('2026-10-01', '2026-10-16', '2026-11-01'),
+        active(None, '2026-10-01', '2026-11-01', first_capture=True),
+        active('2026-10-01', '2026-10-15', '2026-11-21'),
+        active('2026-10-01', '2026-10-15', ''),
+    ])
+    assert stats['active_past_estimate'] == 1
+    assert stats['sample_size'] == 0
